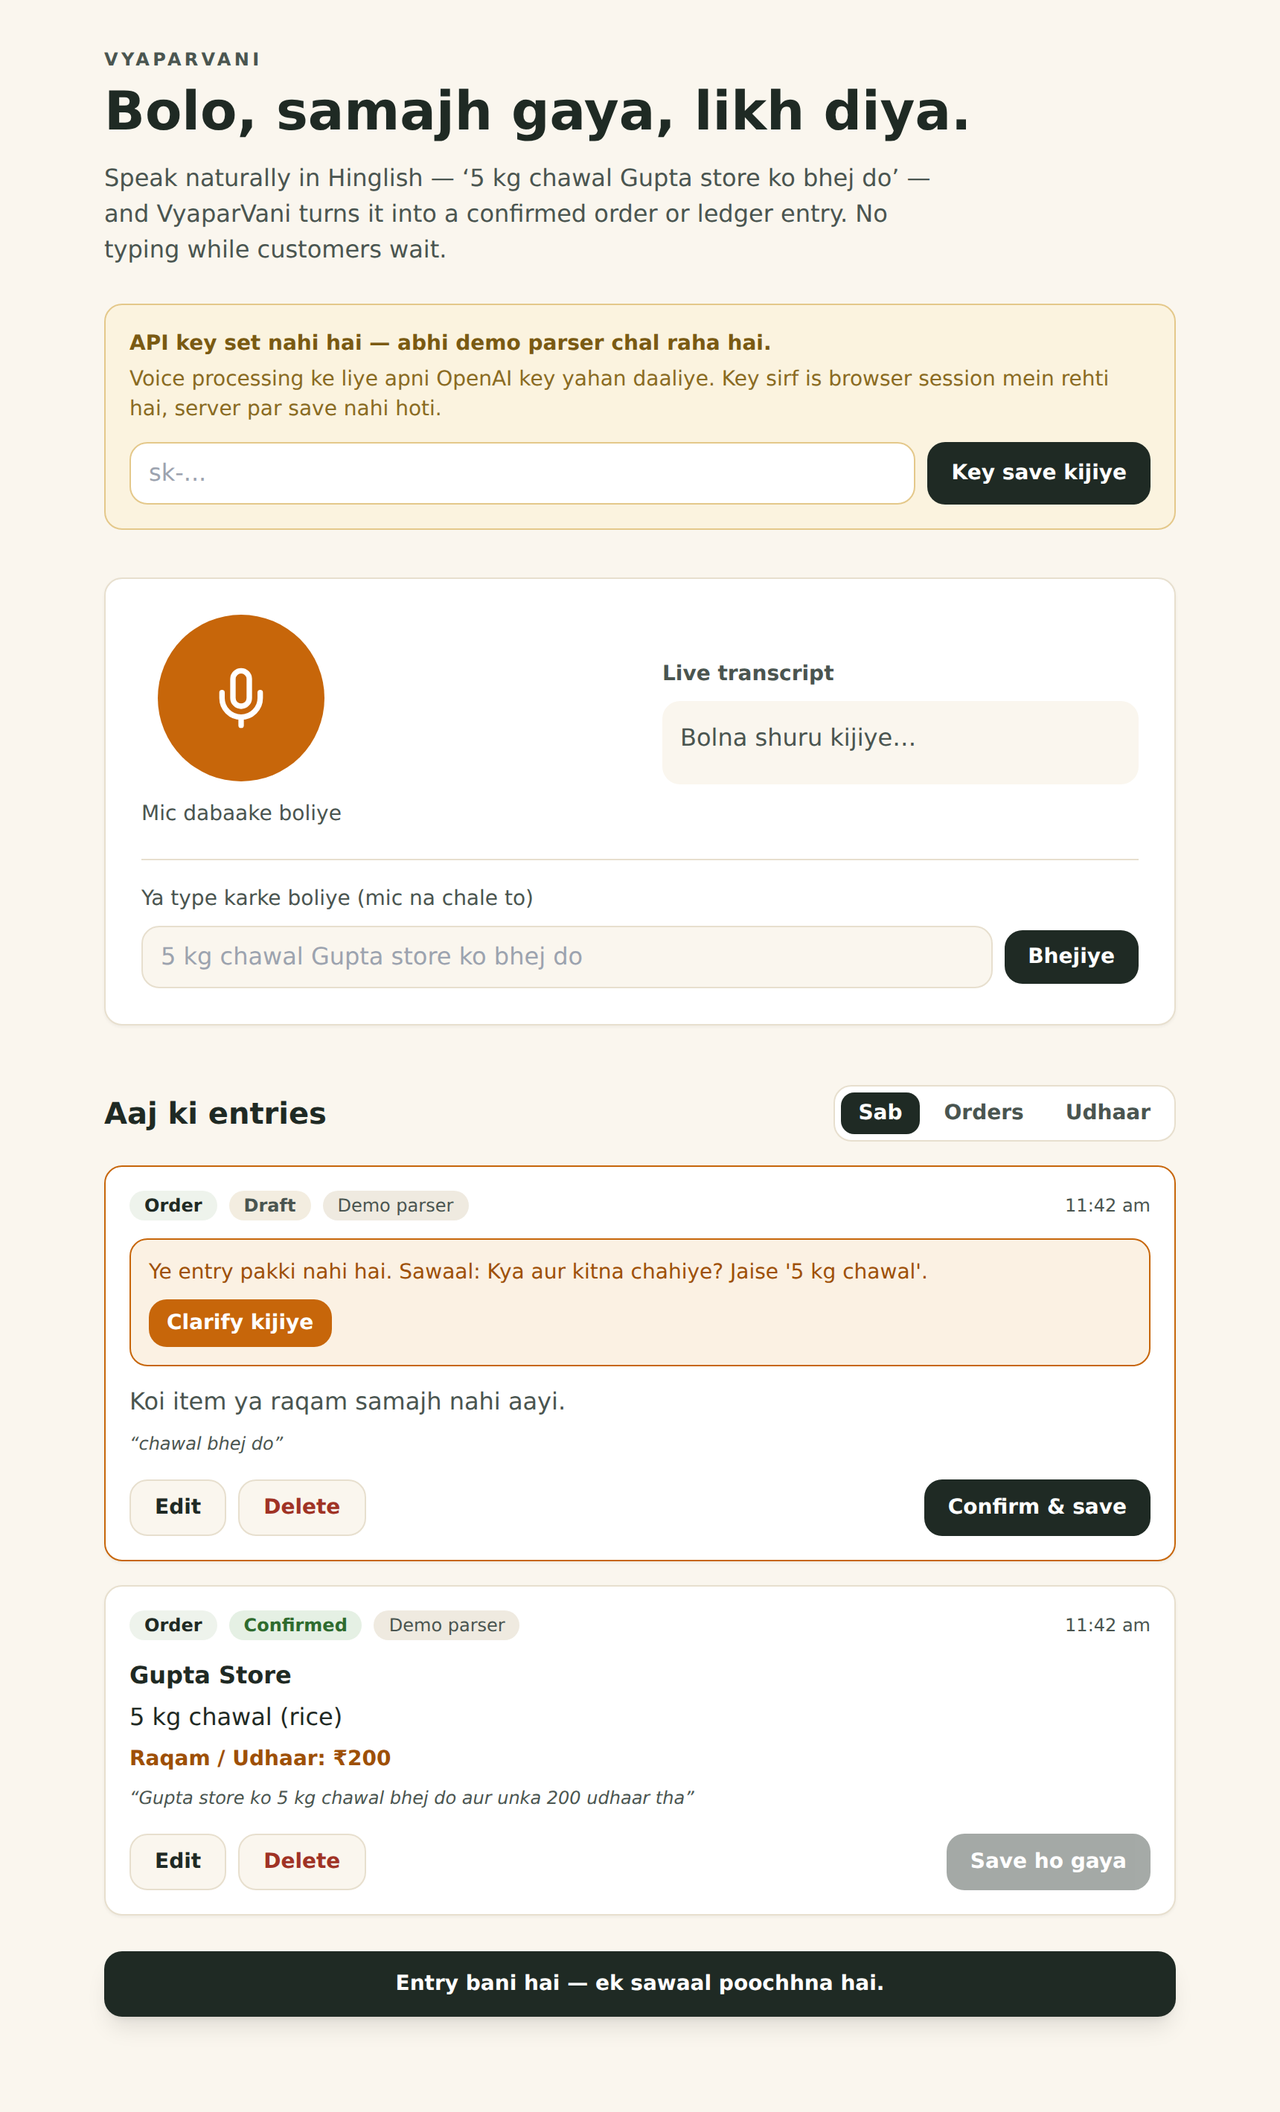
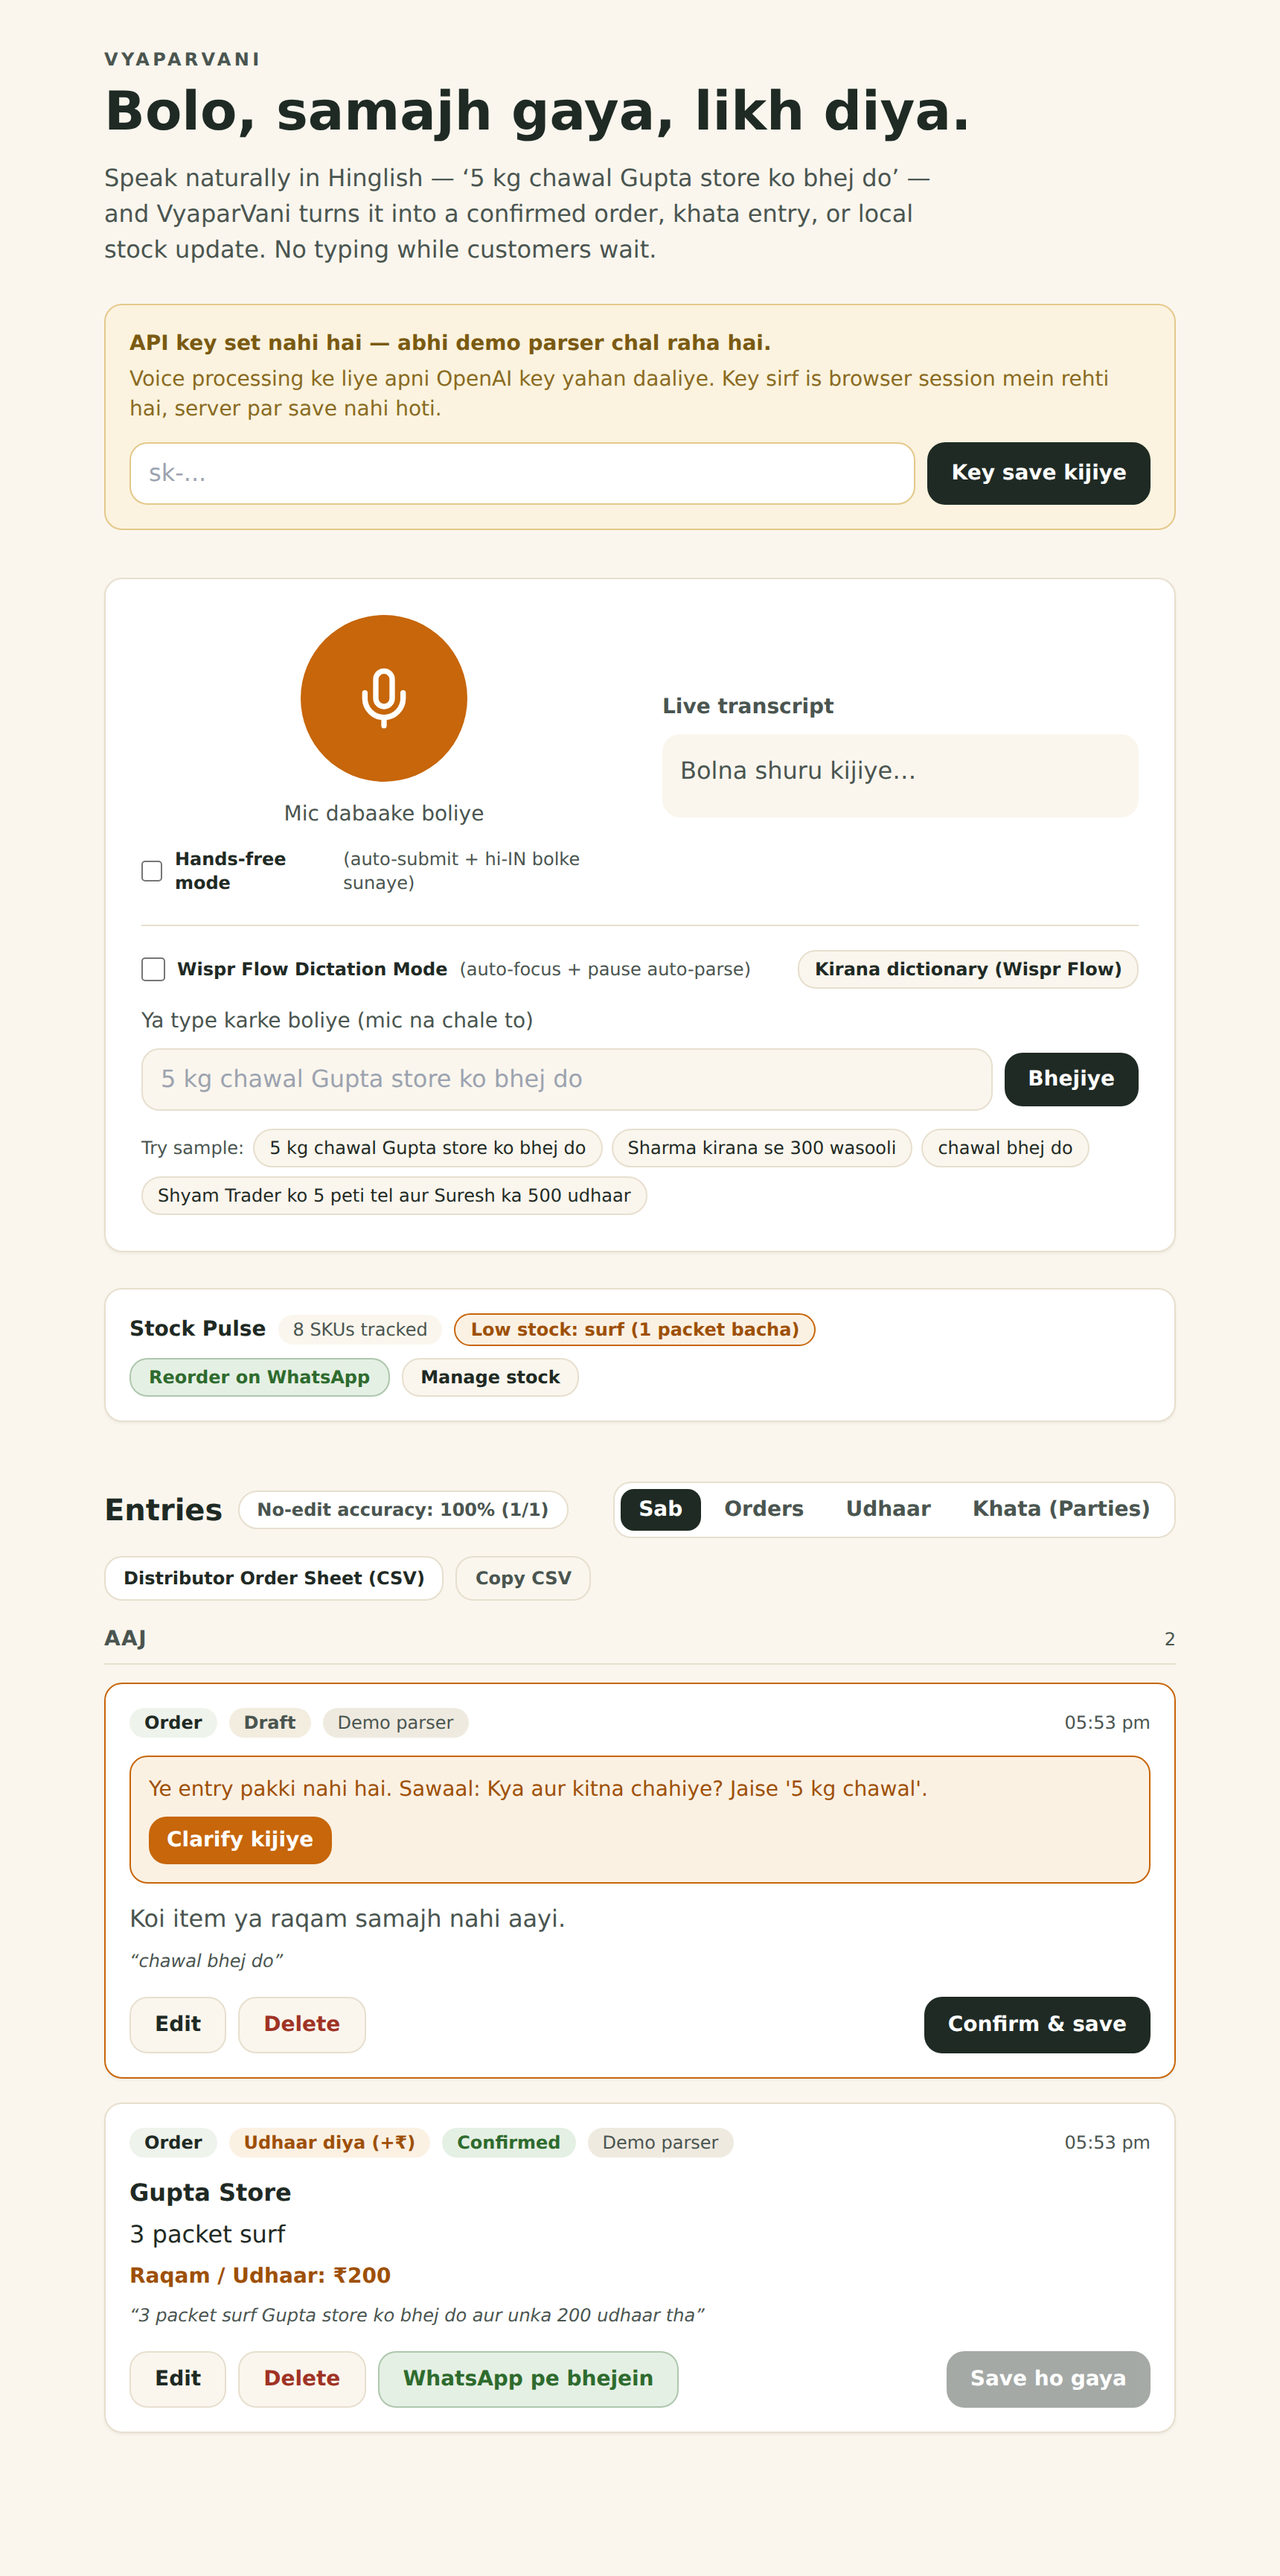
chore(m4): sync refreshed UI screenshot and mark REC-14 complete

Changed region(s): [[0.0616, 0.4961, 0.9244, 0.9612], [0.0616, 0.0, 0.9244, 0.4651], [0.5238, 0.3101, 0.8936, 0.4651]]

diff --git a/CHECKLIST.md b/CHECKLIST.md
@@ -1,8 +1,8 @@
 # VyaparVani — Resumable P0–P3 Implementation Checklist
 
-- **Last Updated**: 2026-11-27T17:30:00Z
-- **Current Milestone**: M4 (`REC-13` Complete -> Next: `REC-14` 90-Second Finale Loop Verification & Final Sync)
-- **Next Resumable Step**: M4 — Implement `REC-14` (automated Playwright E2E test for 4-beat 90s finale flow, refresh `decks/assets/ui-screenshot.png`, rebuild `/home/bangersoul/Projects/vyaparvani/vyaparvani-idea.pdf` with final shipped UI and verified 60-case eval metrics, and confirm all CI checks green)
+- **Last Updated**: 2026-11-27T17:57:00Z
+- **Current Milestone**: M4 (`REC-14` Complete — All M0–M4 Milestones Verified)
+- **Next Resumable Step**: None — ready for final Round 2 submission (`feat/round2-submission` green in CI)
 - **Repository Branch**: `feat/round2-submission` (branched from `master` @ `42448d4`)
 
 ---
@@ -117,6 +117,6 @@
 - [x] Track `edited?: boolean` on `Entry` and render live `No-edit accuracy` KPI pill
 
 ### REC-14: 90-Second Finale Loop Verification & Final Sync
-- [ ] Add automated Playwright E2E test (run in CI in no-key Demo mode) verifying the 4-beat 90-second finale flow: mixed entry -> inline clarification patch -> `Khata (Parties)` net balance + low-stock alert -> 1-tap WhatsApp slip
-- [ ] Refresh `decks/assets/ui-screenshot.png` and rebuild `/home/bangersoul/Projects/vyaparvani/vyaparvani-idea.pdf` with final shipped UI and verified 50–60 eval metrics
-- [ ] Final push to `origin feat/round2-submission` and confirm all GitHub Actions CI checks pass green
+- [x] Add automated Playwright E2E test (run in CI in no-key Demo mode) verifying the 4-beat 90-second finale flow: mixed entry -> inline clarification patch -> `Khata (Parties)` net balance + low-stock alert -> 1-tap WhatsApp slip
+- [x] Refresh `decks/assets/ui-screenshot.png` and rebuild `/home/bangersoul/Projects/vyaparvani/vyaparvani-idea.pdf` with final shipped UI and verified 50–60 eval metrics
+- [x] Final push to `origin feat/round2-submission` and confirm all GitHub Actions CI checks pass green
